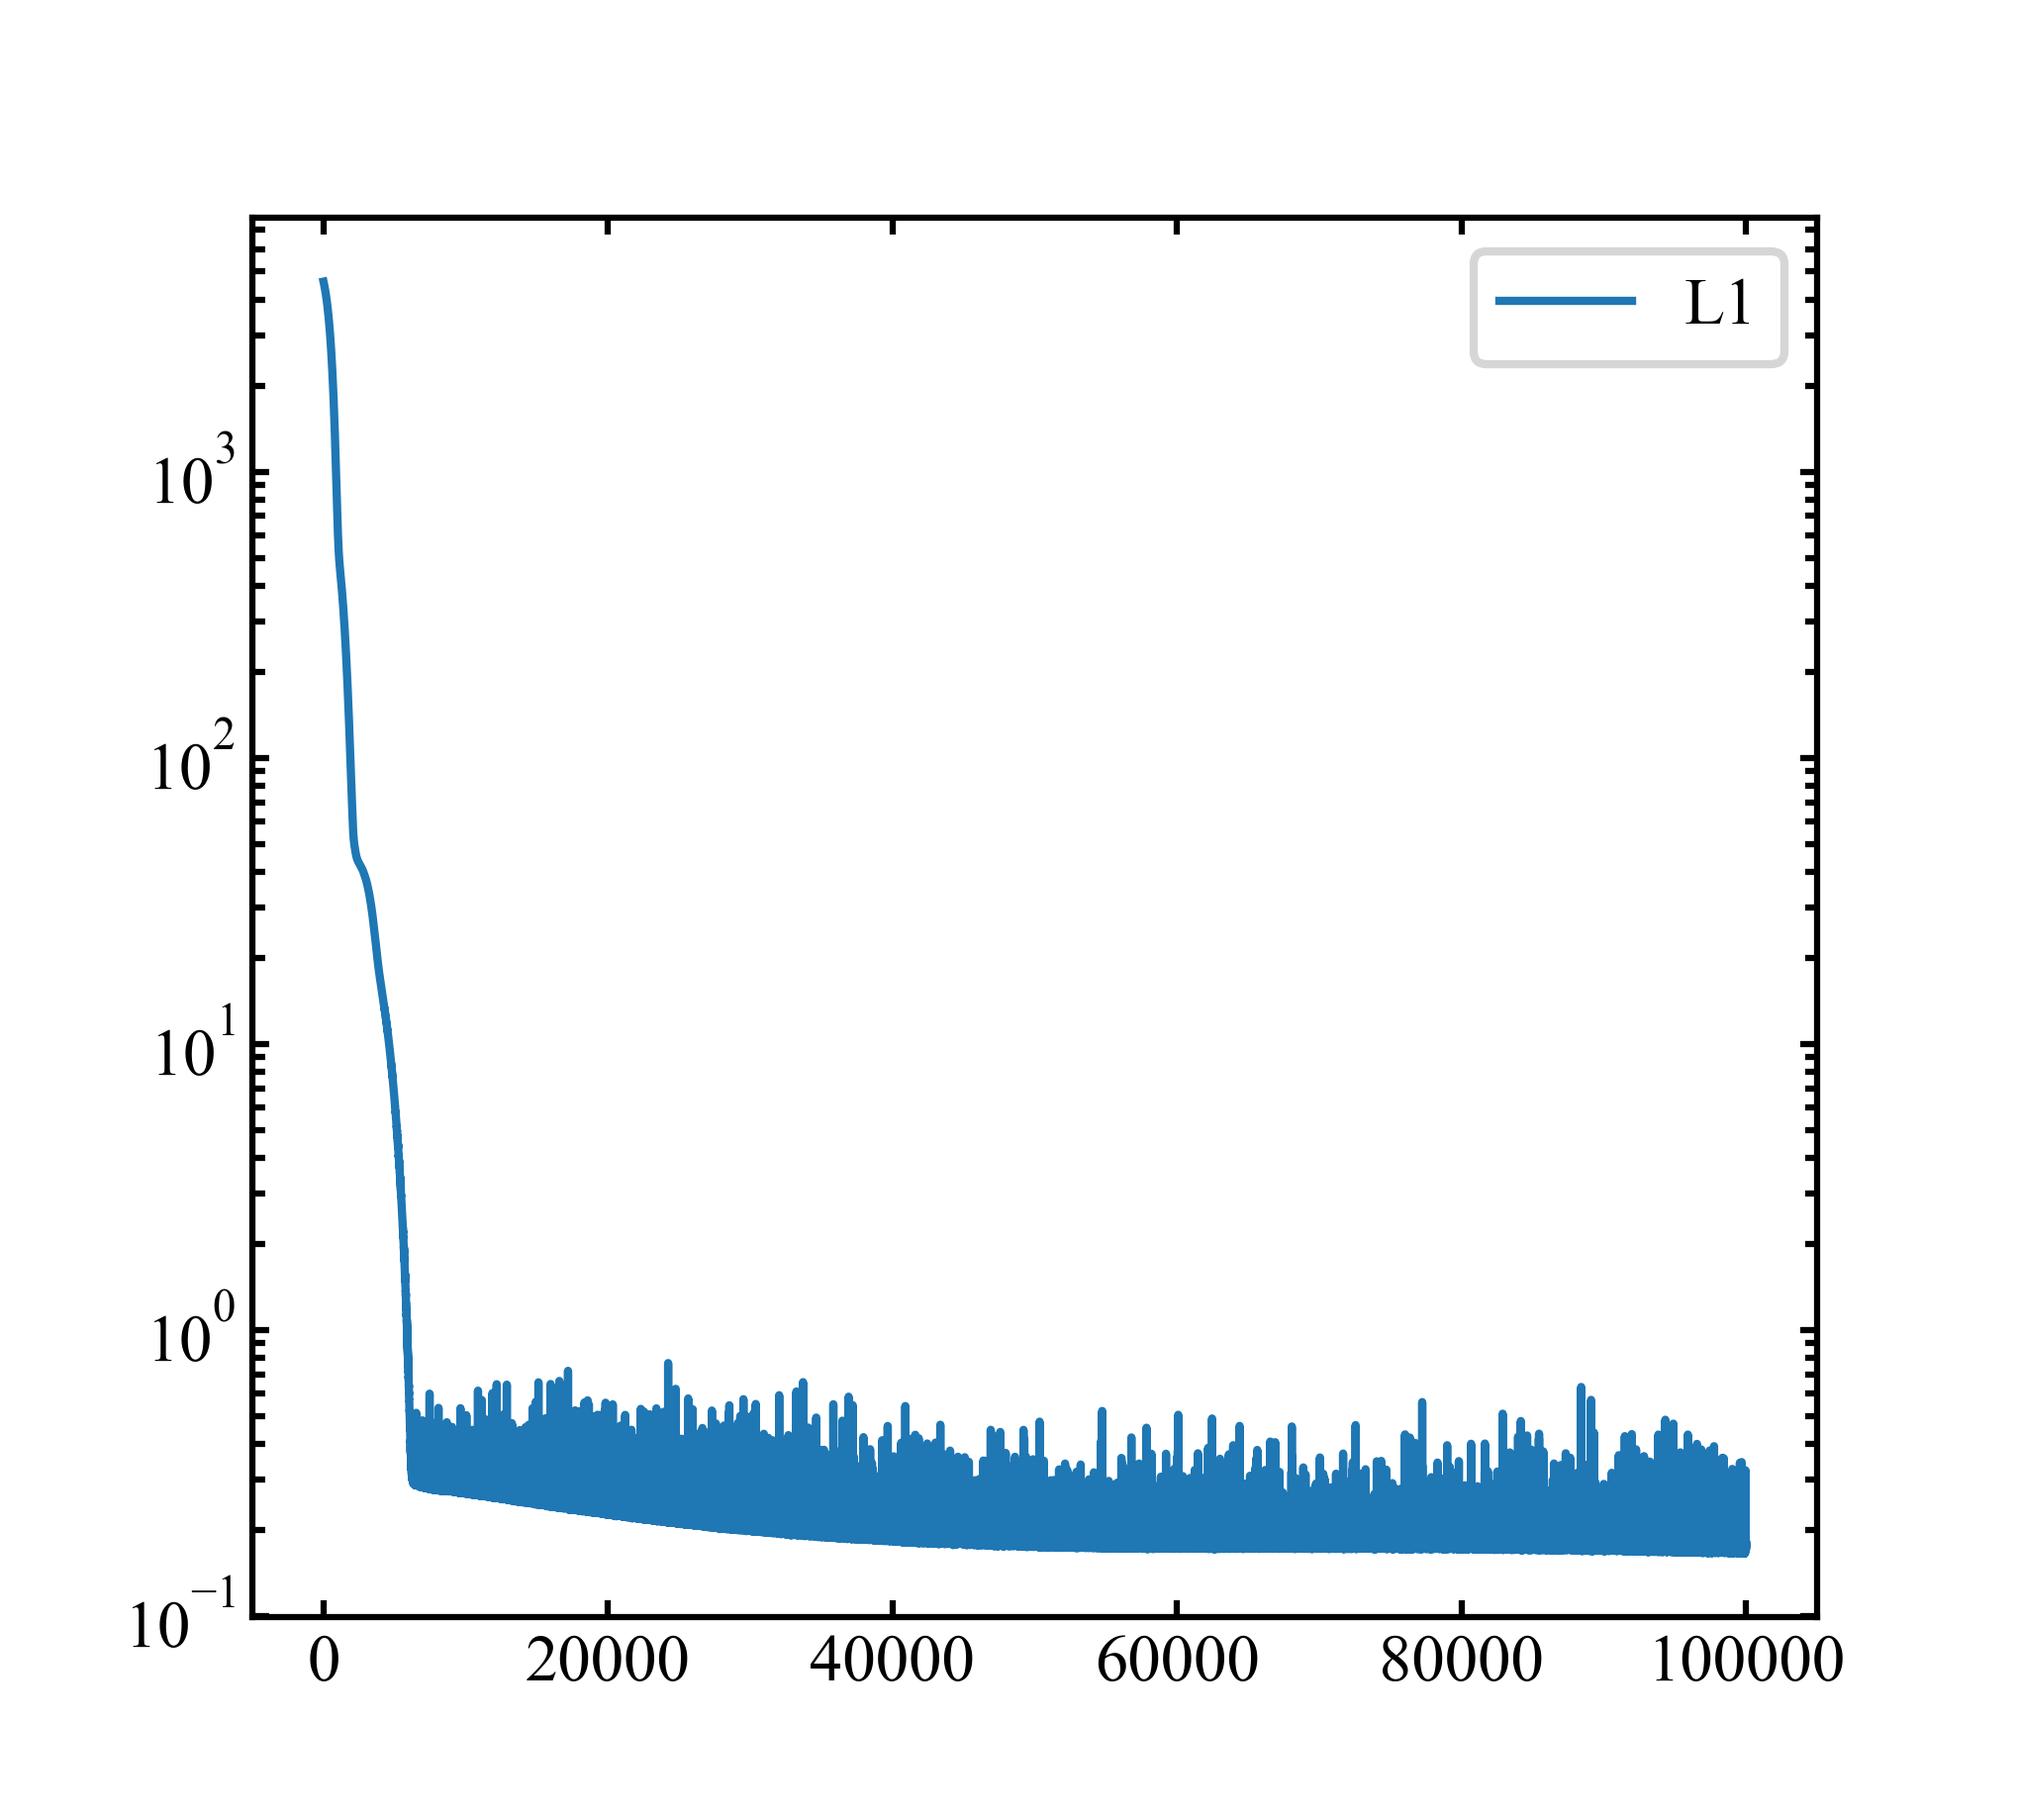
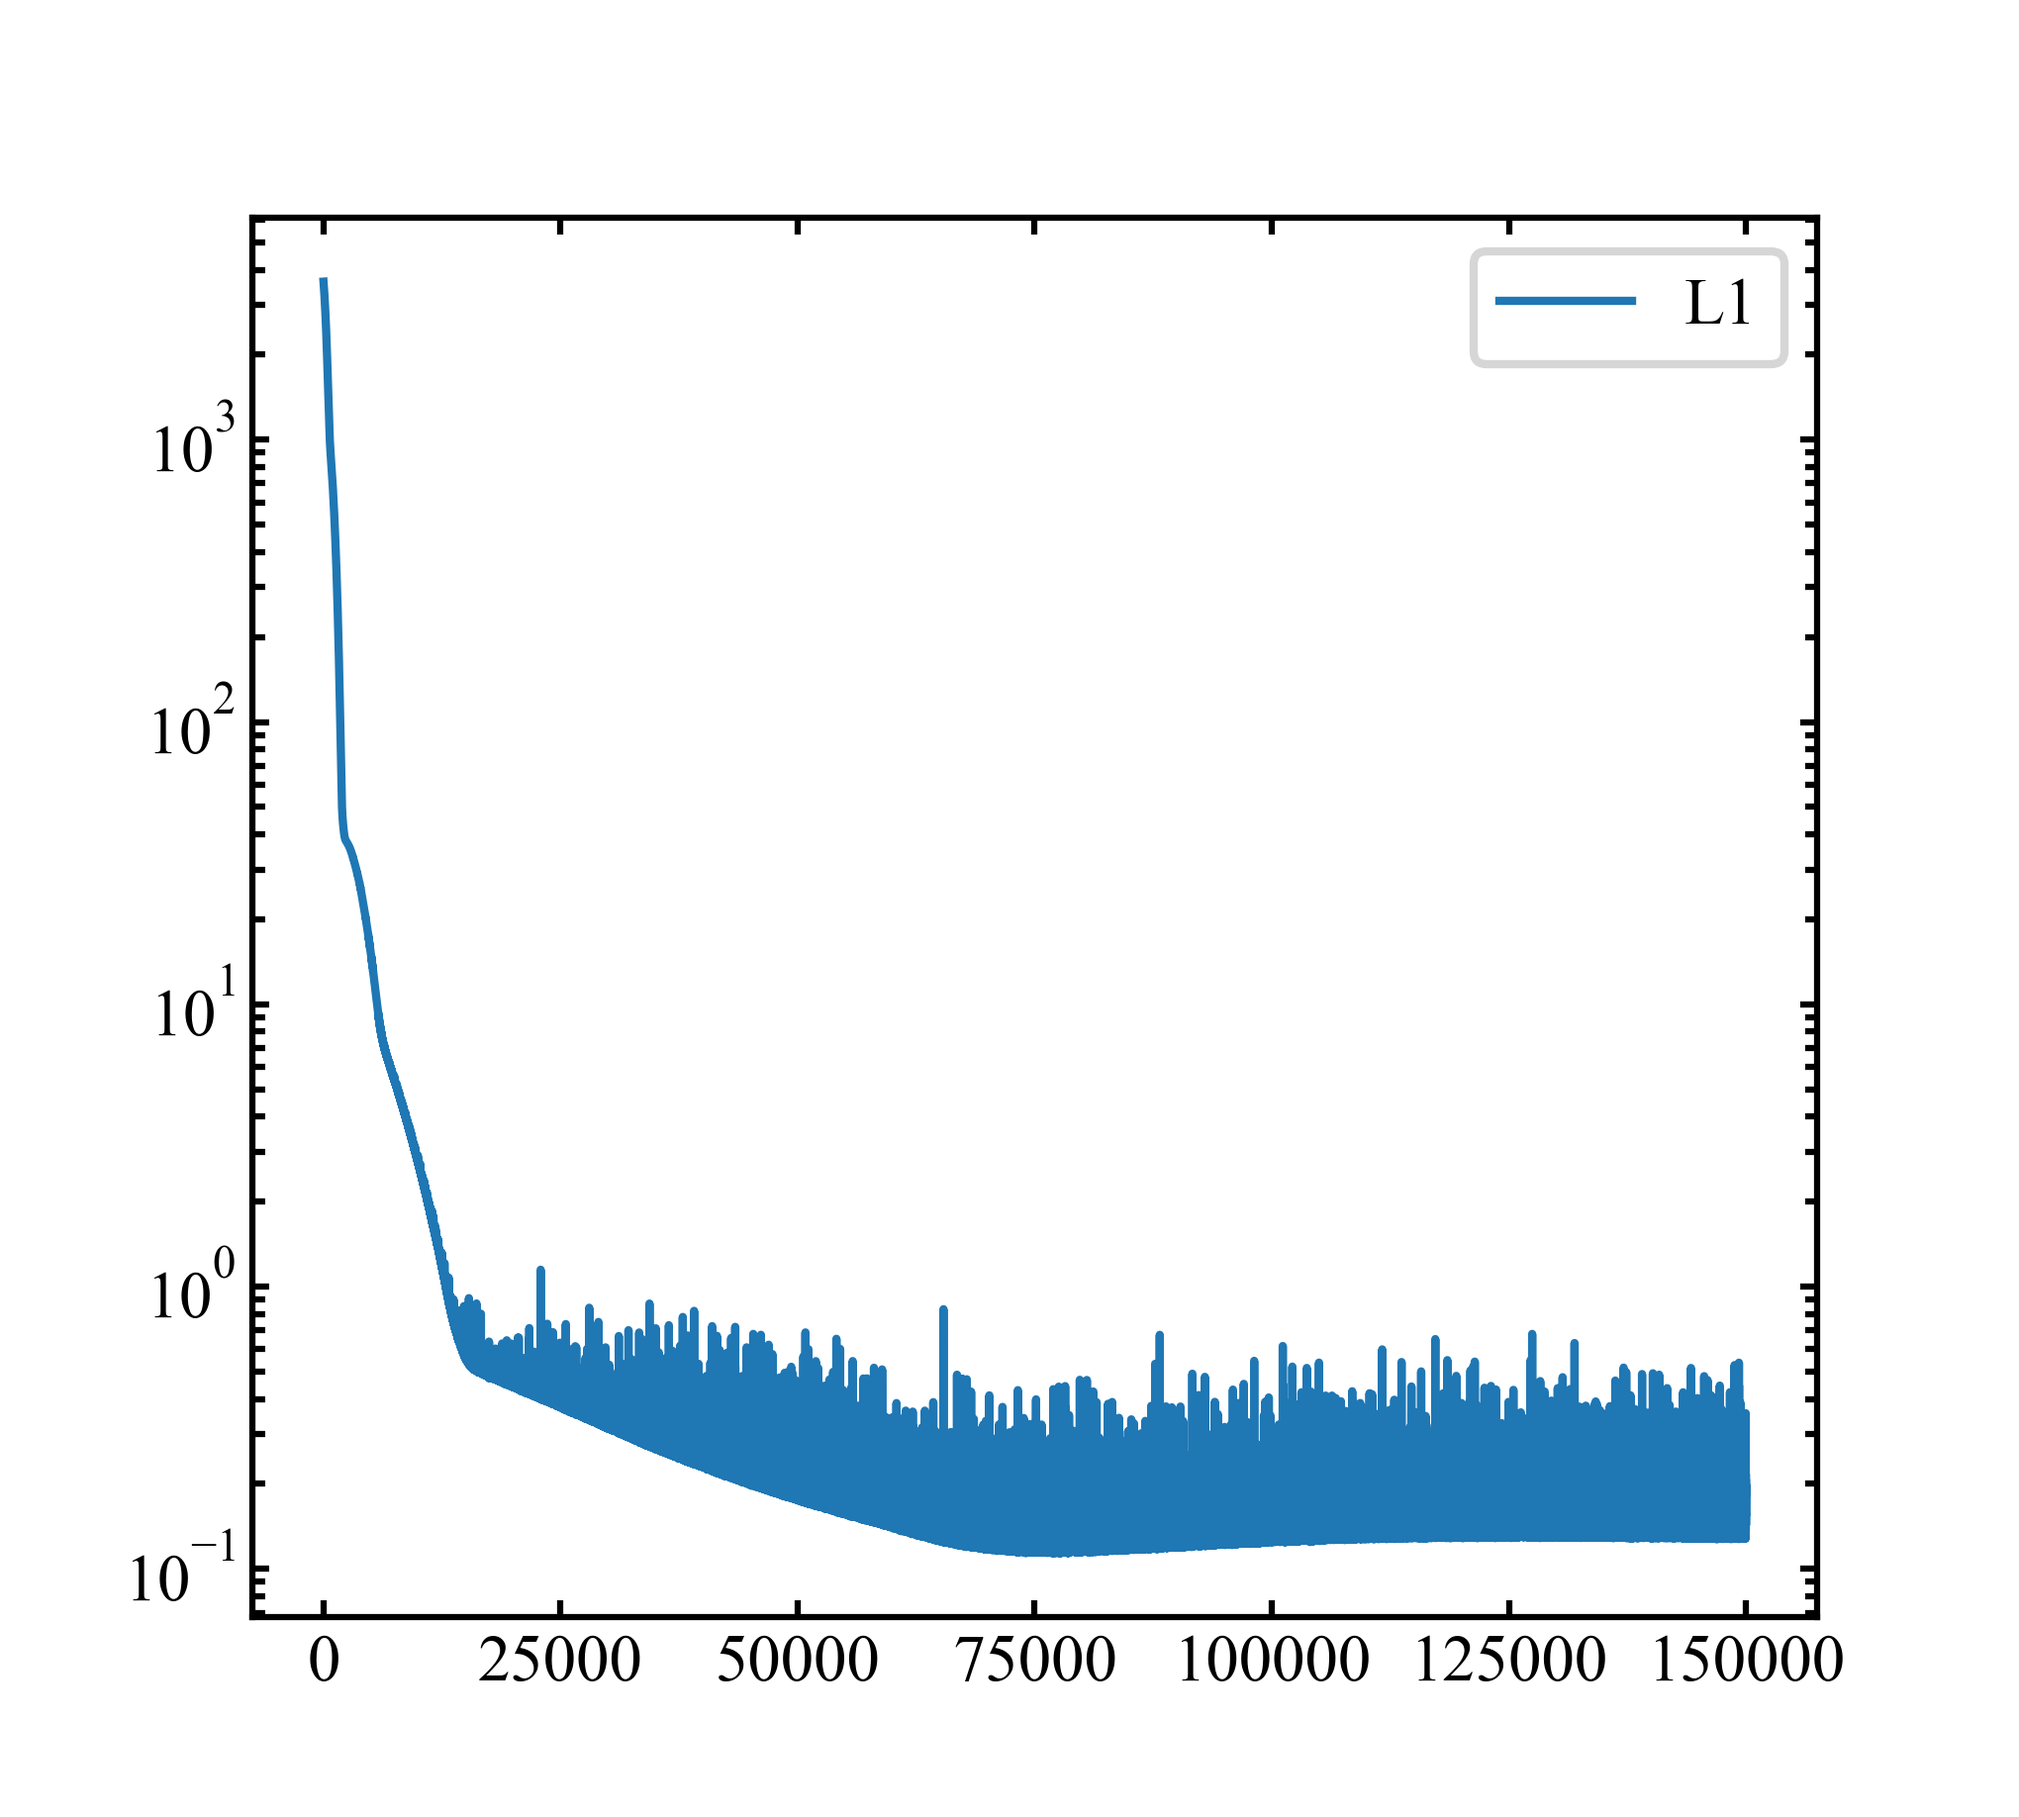
150K Epoch

diff --git a/main.py b/main.py
@@ -38,11 +38,11 @@ print('Initial metric extracted')
 criterion = NN.L1Loss(reduction = 'sum')
 optimizer = optim.Adam(model.parameters(), lr = 0.00005)
 
-epochs = 100000
+epochs = 150000
 losses = []
 norms = []
 regs = []
-c_reg = 1e-1
+c_reg = 0.15
 
 test = False
 
